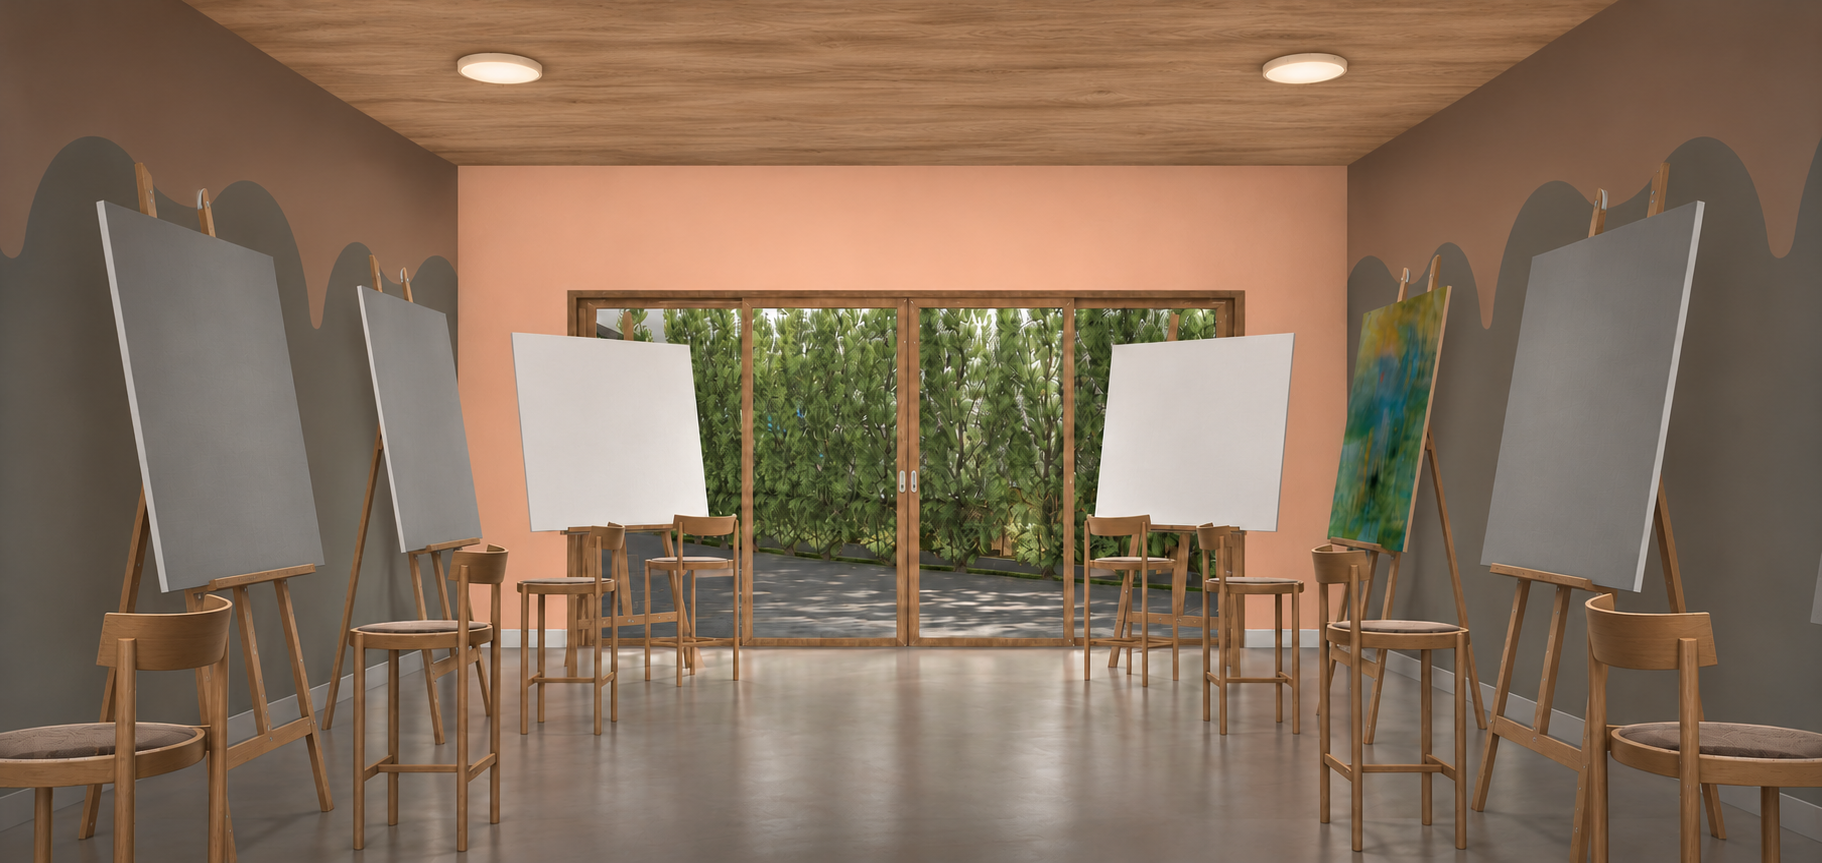
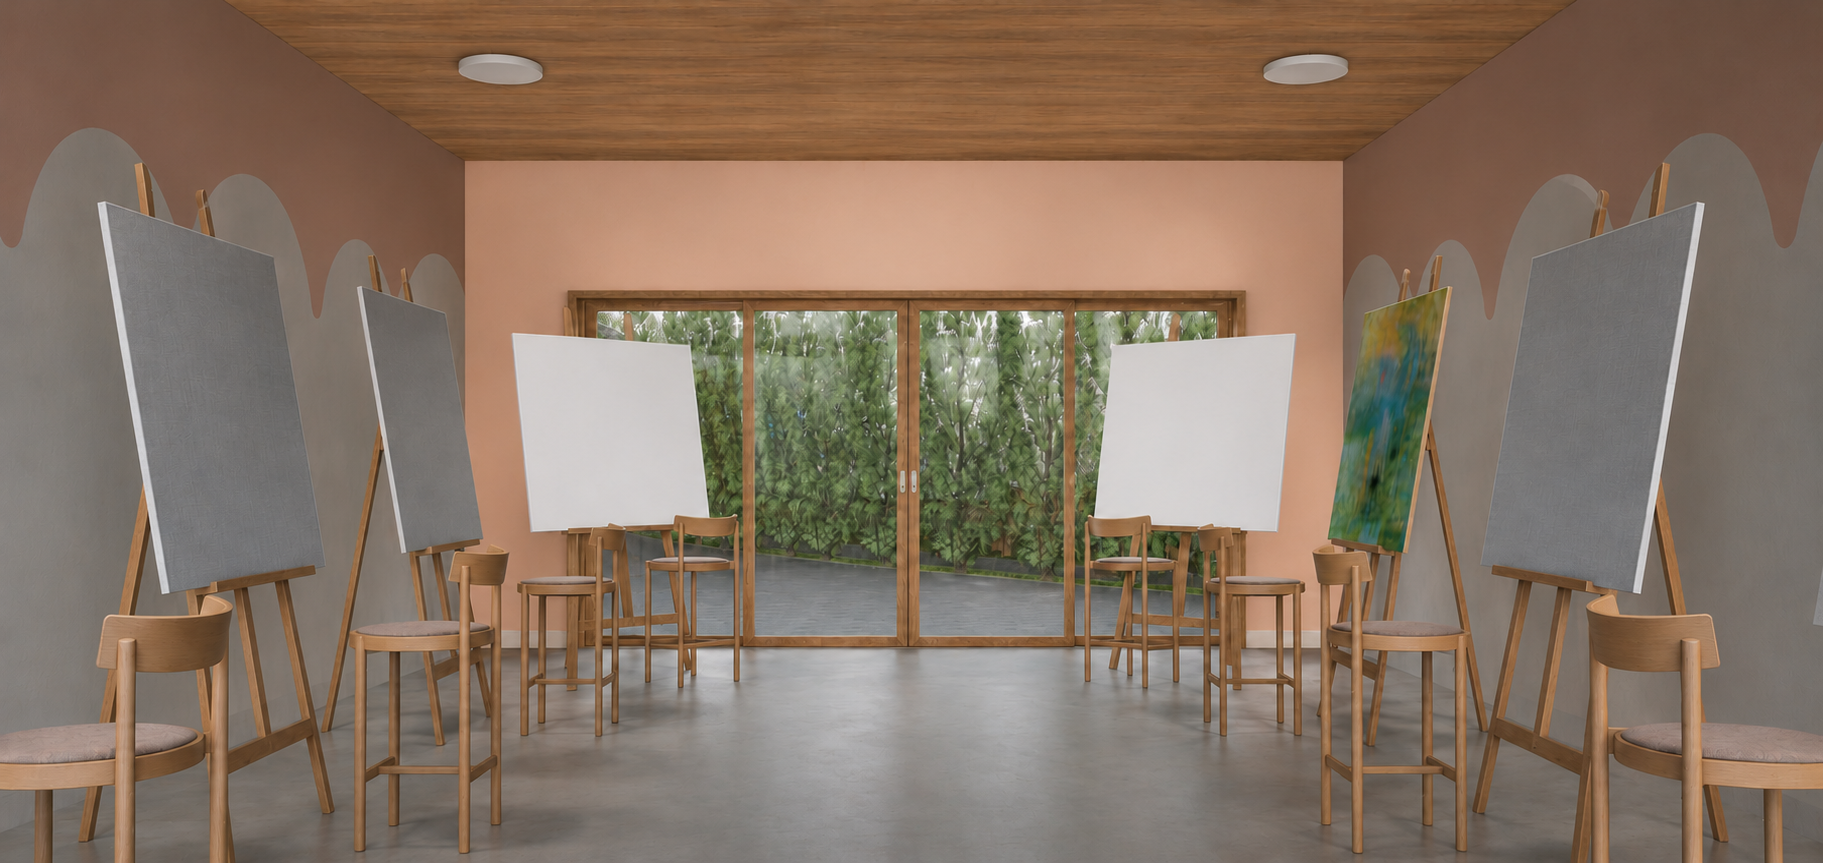
Atualiza texto da capa e imagens da galeria.
Ajusta a descrição do centro no hero e sincroniza assets externos antes do deploy.

diff --git a/src/App.tsx b/src/App.tsx
@@ -62,8 +62,8 @@ export default function App() {
               que Curam
             </h1>
             <p className="mt-5 max-w-xl text-[0.95rem] leading-relaxed text-cream/85 sm:mt-6 sm:text-base md:text-lg">
-              Centro Terapêutico de Artesanato para Mulheres em Tratamento Oncológico —
-              Maringá–PR.
+              Centro Terapêutico de Artesanato para Mulheres em Tratamento Oncológico em
+              Maringá-PR
             </p>
             <a
               href="#galeria"
